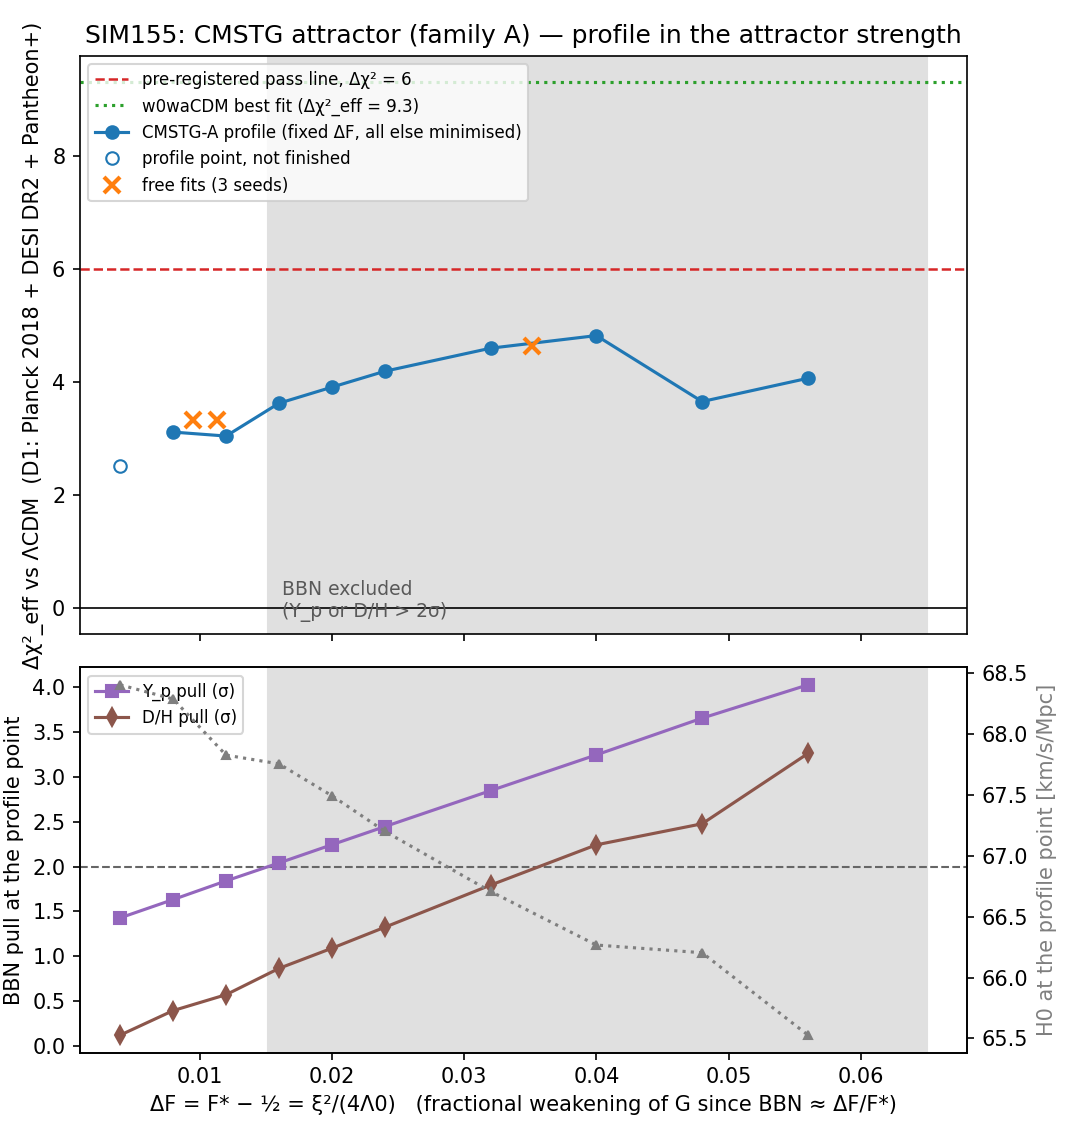
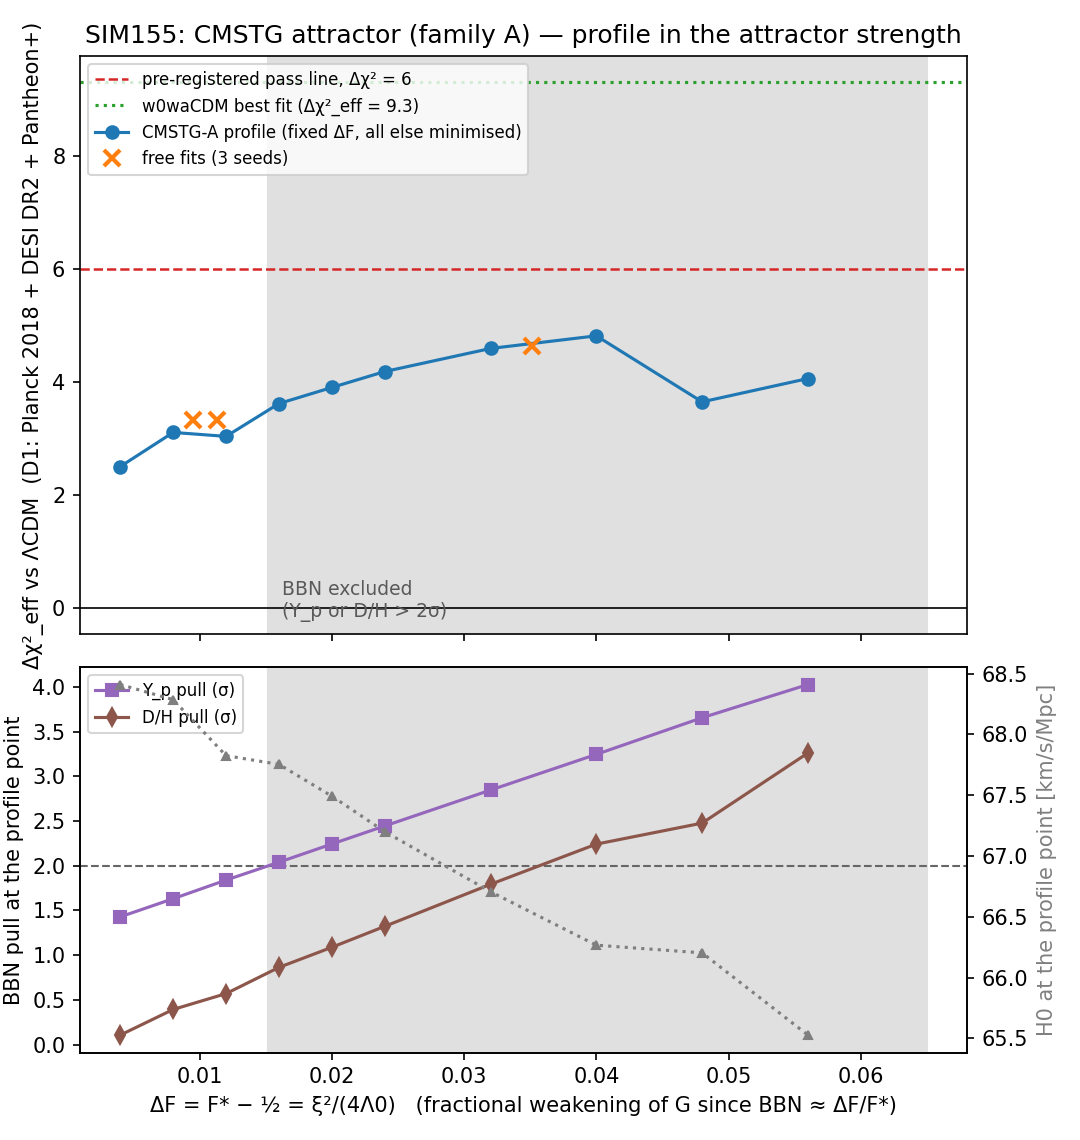
SIM155: last profile point (ΔF = 0.004, Δχ² +2.45); final summary and figure

diff --git a/Ordered_Simulations/SIM155/results.md b/Ordered_Simulations/SIM155/results.md
@@ -16,7 +16,7 @@
 
 | data | ΔF | stage | χ² | Δχ² vs ΛCDM | Δχ²_eff vs ΛCDM | Λ0 | ξ | φ* | H0 | ω_b | Y_p pull | D/H pull | C2 | C3 |
 |---|---|---|---|---|---|---|---|---|---|---|---|---|---|---|
-| D1 | 0.004 | round2 | 2430.18 | +2.43 | +2.50 | 0.0694 | 0.0333 | 0.240 | 68.40 | 0.02244 | +1.43 | +0.12 | True | True |
+| D1 | 0.004 | final | 2430.15 | +2.45 | +2.50 | 0.0707 | 0.0336 | 0.238 | 68.41 | 0.02244 | +1.43 | +0.11 | True | True |
 | D1 | 0.008 | final | 2429.59 | +3.02 | +3.11 | 0.1151 | 0.0607 | 0.264 | 68.29 | 0.02240 | +1.63 | +0.39 | True | True |
 | D1 | 0.012 | final | 2429.58 | +3.03 | +3.04 | 0.2117 | 0.1008 | 0.238 | 67.82 | 0.02241 | +1.84 | +0.57 | True | True |
 | D1 | 0.016 | final | 2429.10 | +3.51 | +3.62 | 0.1974 | 0.1124 | 0.285 | 67.75 | 0.02237 | +2.04 | +0.86 | True | False |
